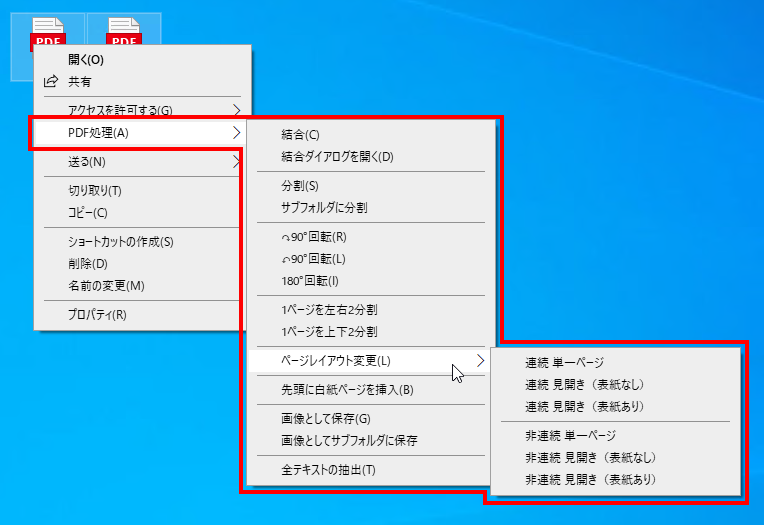
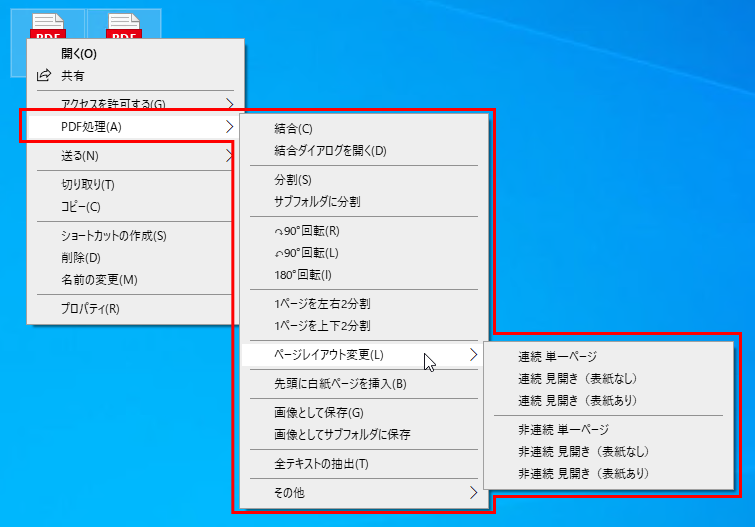
Add setting menu

Changed region(s): [[0.0, 0.0, 1.0, 0.9752]]

diff --git a/pdf_rclick/Class1.cs b/pdf_rclick/Class1.cs
@@ -46,6 +46,9 @@ namespace pdf_rclick
     public class NekotadonPdfRclickExtension : SharpContextMenu
     {
         int dpiSetting = 150;//画像保存時の解像度初期値
+        int[] dpis = { 36, 72, 150, 200, 360, 640 };
+        System.Text.Encoding encoding = null;//テキスト保存時の文字コード
+        List<System.Text.Encoding> encodings = new List<System.Text.Encoding>();
         string contextName = "PDF処理(&A)";//コンテキストメニュー名
 
         protected override bool CanShowMenu()
@@ -76,12 +79,22 @@ namespace pdf_rclick
                 pdfonly = false;
             }
 
+            //文字コード
+            encodings = new List<System.Text.Encoding>
+            {
+                TextLib.EncodeLib.UTF8,//0
+                TextLib.EncodeLib.UTF8withBOM,//1
+                TextLib.EncodeLib.SJIS//2
+            };
+
             try
             {
                 //設定ファイル読み込み
                 TextLib.IniFile iniFile = new TextLib.IniFile();
-                dpiSetting = iniFile.GetKeyValueInt("setting", "dpi", 150, 36, 640, true);
+                dpiSetting = iniFile.GetKeyValueInt("setting", "dpi", 150, dpis.Min(), dpis.Max(), true);
                 contextName = iniFile.GetKeyValueStringWithoutEmpty("setting", "name", "PDF処理(&A)", true);
+                int encodingNum = iniFile.GetKeyValueInt("setting", "encode", 0, 0, encodings.Count - 1, true);
+                encoding = encodings[encodingNum];
             }
             catch (Exception)
             {
@@ -233,6 +246,128 @@ namespace pdf_rclick
             //メニューに追加
             menu.Items.Add(mainMenu);
 
+            //区切り
+            mainMenu.DropDownItems.Add(new ToolStripSeparator());
+
+            //その他
+            ToolStripMenuItem subMenu_other = new ToolStripMenuItem { Text = "その他" };
+
+            ToolStripMenuItem subMenu_setting = new ToolStripMenuItem { Text = "設定" };
+            subMenu_other.DropDownItems.Add(subMenu_setting);
+            TextLib.IniFile iniFile = new TextLib.IniFile();
+
+            //画像保存時の解像度
+            ToolStripMenuItem subMenu_setting_dpi = new ToolStripMenuItem { Text = "画像として保存時の解像度" };
+            subMenu_setting.DropDownItems.Add(subMenu_setting_dpi);
+
+            //画像保存時の解像度サブメニュー
+            int dpiCurrent = iniFile.GetKeyValueInt("setting", "dpi", 150, dpis.Min(), dpis.Max(), true);
+
+            bool dpiExist = false;
+            foreach (var dpi in dpis)
+            {
+                if (!dpiExist && dpiCurrent == dpi)
+                {
+                    dpiExist = true;
+                }
+                ToolStripMenuItem subMenu = new ToolStripMenuItem { Text = dpi.ToString() + "dpi", Checked = dpiCurrent == dpi };
+                subMenu.Click += (s, e) =>
+                {
+                    TextLib.IniFile iniFilebuf = new TextLib.IniFile();
+                    iniFilebuf.SetKeyValueInt("setting", "dpi", dpi);
+                    dpiSetting = dpi;
+                };
+                subMenu_setting_dpi.DropDownItems.Add(subMenu);
+            }
+            if (!dpiExist)
+            {
+                ToolStripMenuItem subMenu_dpi_custom = new ToolStripMenuItem { Text = "カスタム", Checked = true };
+                subMenu_setting_dpi.DropDownItems.Add(subMenu_dpi_custom);
+            }
+
+            //テキスト保存時の文字コード
+            ToolStripMenuItem subMenu_setting_code = new ToolStripMenuItem { Text = "テキスト保存時の文字コード" };
+            subMenu_setting.DropDownItems.Add(subMenu_setting_code);
+
+            //テキスト保存時の文字コードサブメニュー
+            ToolStripMenuItem subMenu_utf8 = new ToolStripMenuItem { Text = "UTF8" };
+            ToolStripMenuItem subMenu_utf8_with_bom = new ToolStripMenuItem { Text = "UTF8 with BOM" };
+            ToolStripMenuItem subMenu_sjis = new ToolStripMenuItem { Text = "Shift-JIS" };
+
+            subMenu_setting_code.DropDownItems.Add(subMenu_utf8);
+            subMenu_setting_code.DropDownItems.Add(subMenu_utf8_with_bom);
+            subMenu_setting_code.DropDownItems.Add(subMenu_sjis);
+
+            int encodingNum = iniFile.GetKeyValueInt("setting", "encode", 0, 0, encodings.Count - 1, true);
+            subMenu_utf8.Checked = encodingNum == 0;
+            subMenu_utf8_with_bom.Checked = encodingNum == 1;
+            subMenu_sjis.Checked = encodingNum == 2;
+
+            Action<object, int> action_encode = (s, num) =>
+            {
+                TextLib.IniFile iniFilebuf = new TextLib.IniFile();
+                if (num < 0 || encodings.Count <= num)
+                {
+                    num = 0;
+                }
+                iniFilebuf.SetKeyValueInt("setting", "encode", num);
+                encoding = encodings[num];
+            };
+
+            subMenu_utf8.Click += (s, e) => action_encode(s, 0);
+            subMenu_utf8_with_bom.Click += (s, e) => action_encode(s, 1);
+            subMenu_sjis.Click += (s, e) => action_encode(s, 2);
+
+            //結合ダイアログでのプレビュー
+            ToolStripMenuItem subMenu_setting_preview = new ToolStripMenuItem { Text = "結合ダイアログでのプレビュー" };
+            subMenu_setting.DropDownItems.Add(subMenu_setting_preview);
+
+            //結合ダイアログでのプレビューサブメニュー
+            int currentPreviewSize = iniFile.GetKeyValueInt("setting", "previewSize", 2, 0, 1000, true);
+            int[] previewSizes = { 0, 1, 2, 5, 10, 20, 50, 1000 };
+
+            bool previewSizeExist = false;
+            foreach (var previewSize in previewSizes)
+            {
+                if (!previewSizeExist && currentPreviewSize == previewSize)
+                {
+                    previewSizeExist = true;
+                }
+                ToolStripMenuItem subMenu = new ToolStripMenuItem { Text = previewSize.ToString() + "MB以下のファイルのみ", Checked = currentPreviewSize == previewSize };
+                if (previewSize == 0)
+                {
+                    subMenu.Text = "プレビューしない";
+                }
+
+                subMenu.Click += (s, e) =>
+                {
+                    TextLib.IniFile iniFilebuf = new TextLib.IniFile();
+                    iniFilebuf.SetKeyValueInt("setting", "previewSize", previewSize);
+                };
+                subMenu_setting_preview.DropDownItems.Add(subMenu);
+            }
+            if (currentPreviewSize != 0 && !previewSizeExist)
+            {
+                ToolStripMenuItem subMenu_preview_custom = new ToolStripMenuItem { Text = "カスタム", Checked = true };
+                subMenu_setting_preview.DropDownItems.Add(subMenu_preview_custom);
+            }
+
+            //区切り
+            subMenu_other.DropDownItems.Add(new ToolStripSeparator());
+
+            //バージョン情報
+            ToolStripMenuItem subMenu_version = new ToolStripMenuItem { Text = "バージョン情報" };
+            subMenu_other.DropDownItems.Add(subMenu_version);
+            subMenu_version.Click += (s, e) =>
+            {
+                MessageBox.Show("pdf_rclick ver."
+                 + System.Reflection.Assembly.GetExecutingAssembly().GetName().Version.ToString()
+                 + Environment.NewLine
+                 + Environment.NewLine
+                 + "Copyright (c) 2023 nekotadon", "バージョン情報");
+            };
+
+            mainMenu.DropDownItems.Add(subMenu_other);
             return menu;
         }
 
@@ -1125,7 +1260,7 @@ namespace pdf_rclick
                         if (isContinued())
                         {
                             //ファイルを作成
-                            sw = new StreamWriter(outputfile, false, new System.Text.UTF8Encoding(false));
+                            sw = new StreamWriter(outputfile, false, encoding ?? TextLib.EncodeLib.UTF8);
                             sw.Write(sb.ToString());
                         }
                     }

diff --git a/pdf_rclick/Properties/AssemblyInfo.cs b/pdf_rclick/Properties/AssemblyInfo.cs
@@ -32,5 +32,5 @@ using System.Runtime.InteropServices;
 // すべての値を指定するか、次を使用してビルド番号とリビジョン番号を既定に設定できます
 // 既定値にすることができます:
 // [assembly: AssemblyVersion("1.0.*")]
-[assembly: AssemblyVersion("1.1.0.0")]
-[assembly: AssemblyFileVersion("1.1.0.0")]
+[assembly: AssemblyVersion("1.1.1.0")]
+[assembly: AssemblyFileVersion("1.1.1.0")]
